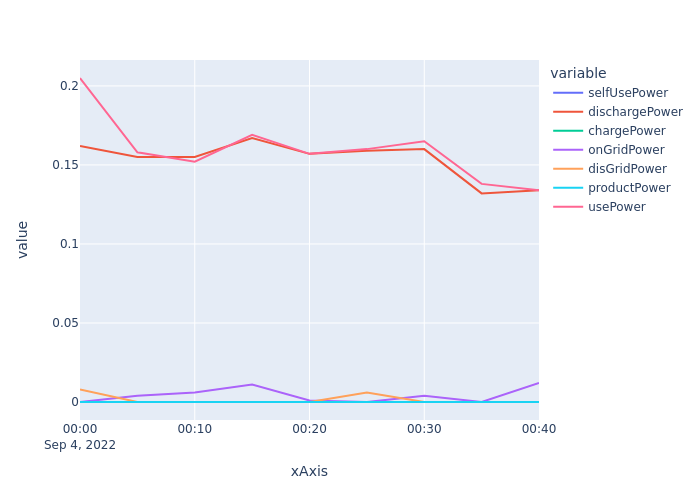
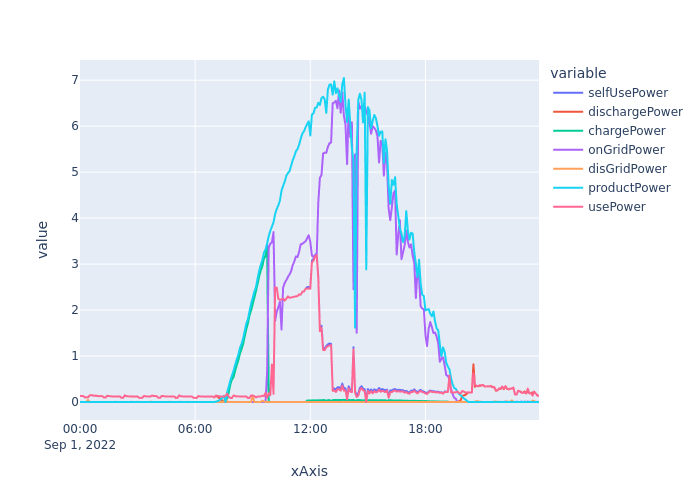
updated readme

diff --git a/readme.md b/readme.md
@@ -2,8 +2,10 @@
 
 
 
-A python client for the HuaweiFusionSolar API used to monitor
-solar power plants.
+A python client for the HuaweiFusionSolar API used to monitor solar power plants.
+There were 2 main goals: 
+- being able to retreive realtime statistics for use in Home Assistant -> see this integration: https://github.com/janmolemans/huawei_fusionsolar
+- being able to retreive historical statistics for plotting and stuff
 
 This client uses the https://region01eu5.fusionsolar.huawei.com end point by default. It is
 possible to change this using the `huawei_subdomain` parameter. 
@@ -83,7 +85,7 @@ for device in devices:
         print(metric.name, metric.value, metric.unit)
         units.add(metric.unit)
         # values.append(metric.value)
-        break
+        break # uncomment for more prints
     # print(device.name, device.type)
     # print(json.dumps(device.get_device_stats(), indent=4))
     # r= device.get_device_stats(return_resp=True)
@@ -106,7 +108,7 @@ import pandas
 pandas.options.plotting.backend = "plotly"
 
 d = datetime.datetime.now()
-# d = datetime.datetime(2022,11,1)
+d = datetime.datetime(2022,9,1)
 dt = datetime.datetime(
     year=d.year,
     month=d.month,
